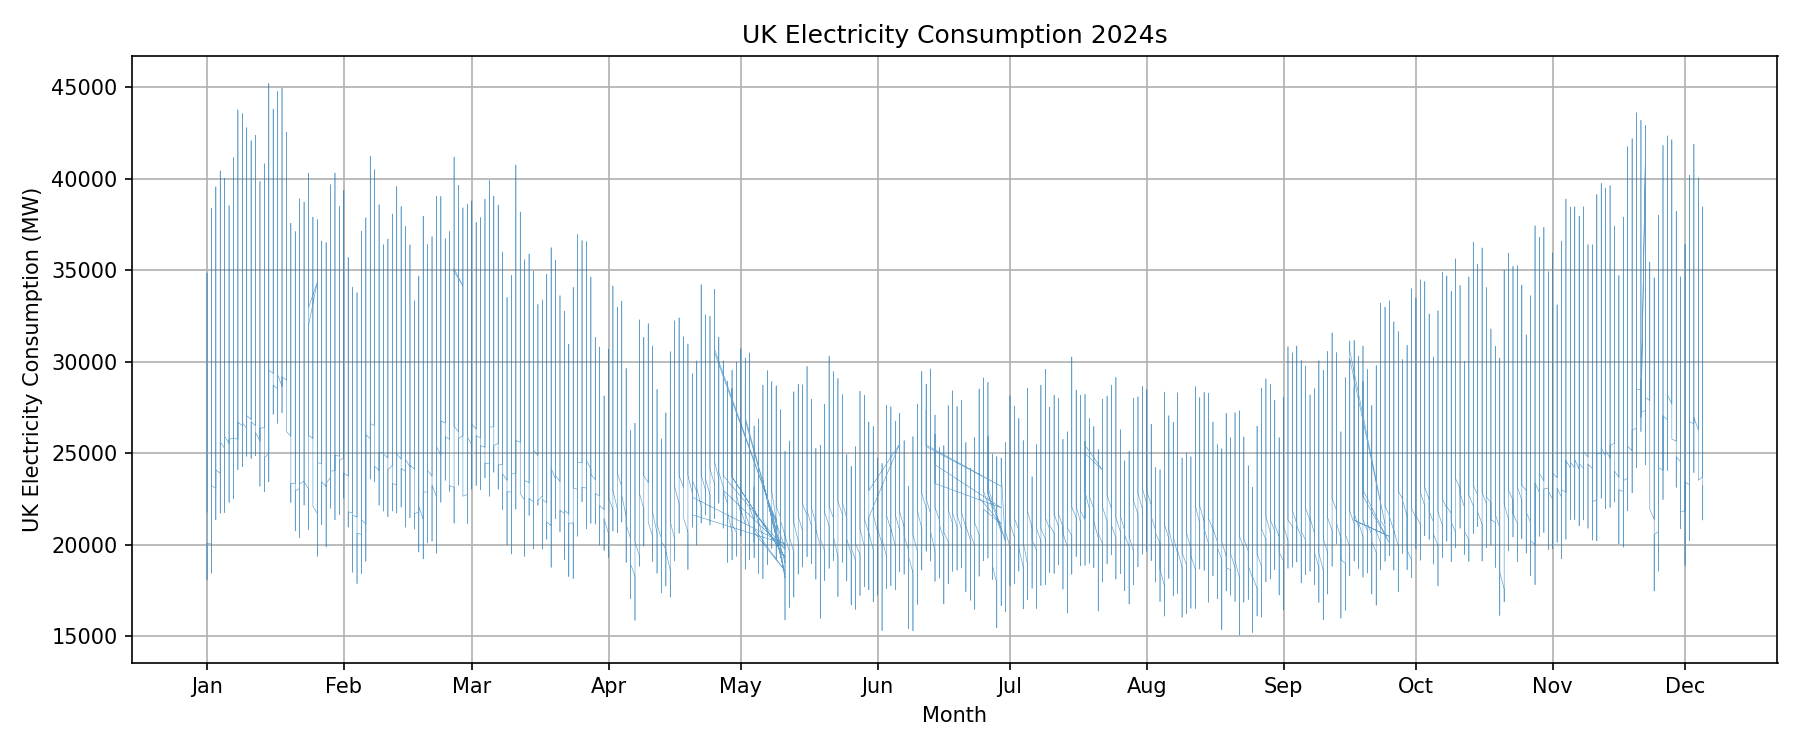
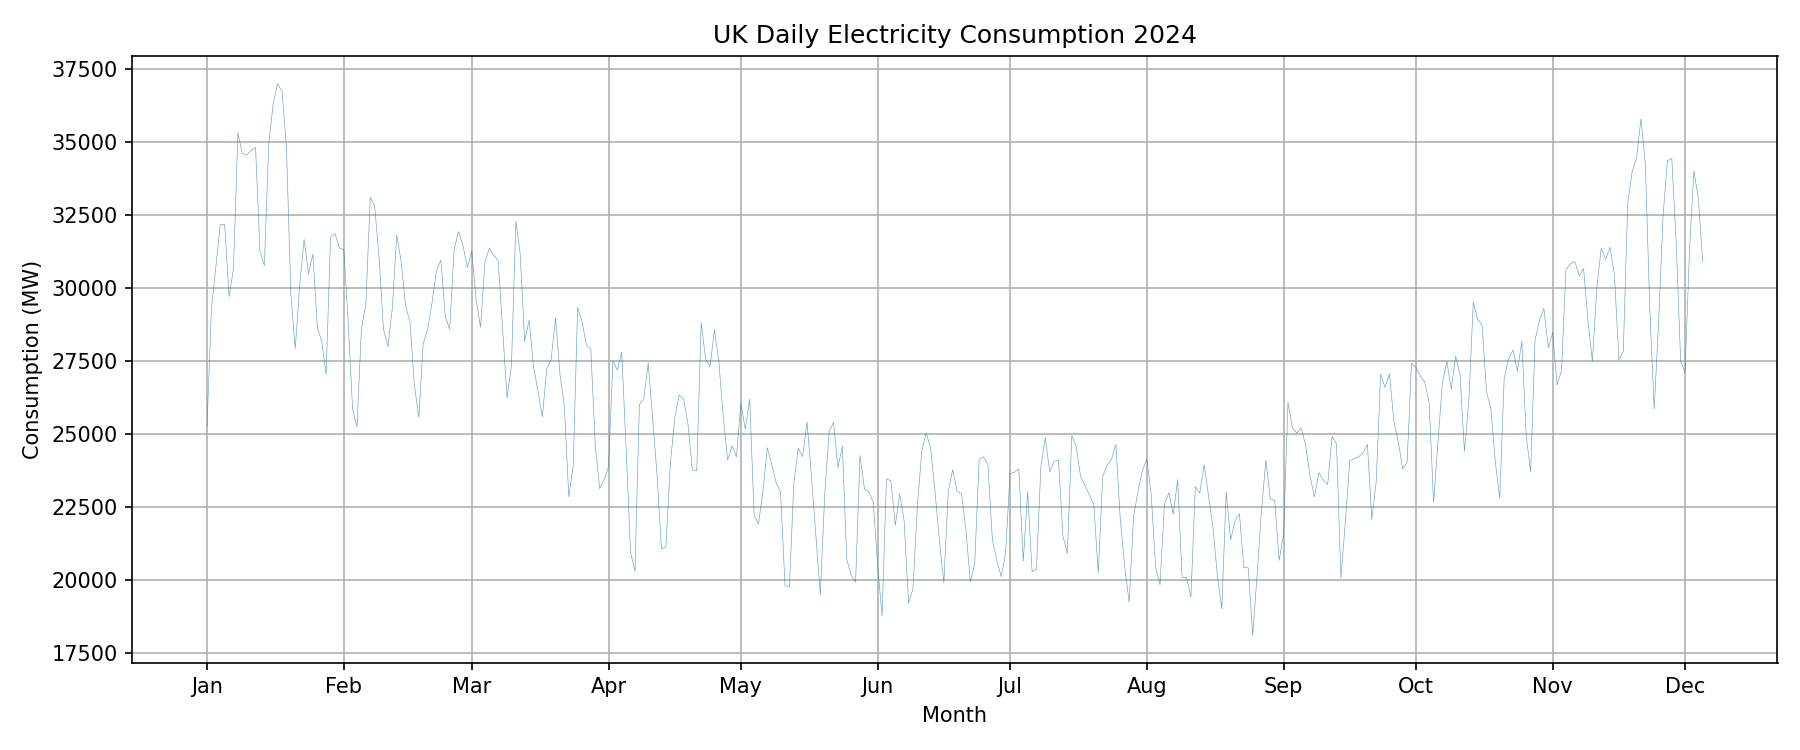
Aggregate per daily consumption and comment out log-transform for now.

diff --git a/plot_demand.py b/plot_demand.py
@@ -4,30 +4,35 @@ import matplotlib.pyplot as plt
 
 df = pd.read_csv("data/input/historic_demand_2009_2024.csv", parse_dates=["settlement_date"])
 
-fig, (ax1, ax2) = plt.subplots(2, 1, figsize=(14, 8), sharex=True)
+daily_df = df.groupby("settlement_date")["nd"].mean().reset_index()
+daily_df.columns = ["date", "nd"]
 
-ax1.plot(df["settlement_date"], df["nd"], linewidth=0.3, alpha=0.7)
-ax1.set_ylabel("UK Electricity Consumption (MW)")
-ax1.set_title("UK Electricity Consumption 2009–2024")
+fig, ax1 = plt.subplots(1, 1, figsize=(14, 5))
+
+ax1.plot(daily_df["date"], daily_df["nd"], linewidth=0.5, alpha=0.7)
+ax1.set_xlabel("Year")
+ax1.set_ylabel("Consumption (MW)")
+ax1.set_title("UK Daily Electricity Consumption 2009–2024")
 ax1.grid(True)
 
-ax2.plot(df["settlement_date"], np.log(df["nd"]), linewidth=0.3, alpha=0.7)
-ax2.set_xlabel("Year")
-ax2.set_ylabel("UK Electricity Consumption (MW)")
-ax2.set_title("UK Electricity Consumption 2009–2024 (Log Transformed)")
-ax2.grid(True)
+# ax2.plot(daily_df["date"], np.log(daily_df["nd"]), linewidth=0.5, alpha=0.7)
+# ax2.set_xlabel("Year")
+# ax2.set_ylabel("Consumption (MW)")
+# ax2.set_title("UK Daily Electricity Consumption 2009–2024 (Log Transformed)")
+# ax2.grid(True)
 
 plt.tight_layout()
 plt.savefig("data/output/demand_by_year.png", dpi=150)
 print("Saved to data/output/demand_by_year.png")
 
 df2024 = pd.read_csv("data/input/historic_demand_year_2024.csv", parse_dates=["settlement_date"])
+daily_df_2024 = df2024.groupby("settlement_date")["nd"].mean().reset_index()
 
 plt.figure(figsize=(12, 5))
-plt.plot(df2024["settlement_date"], df2024["nd"], linewidth=0.3, alpha=0.7)
+plt.plot(daily_df_2024["settlement_date"], daily_df_2024["nd"], linewidth=0.3, alpha=0.7)
 plt.xlabel("Month")
-plt.ylabel("UK Electricity Consumption (MW)")
-plt.title("UK Electricity Consumption 2024s")
+plt.ylabel("Consumption (MW)")
+plt.title("UK Daily Electricity Consumption 2024")
 plt.xticks(
     ticks=pd.date_range("2024-01-01", periods=12, freq="MS"),
     labels=["Jan","Feb","Mar","Apr","May","Jun","Jul","Aug","Sep","Oct","Nov","Dec"],
